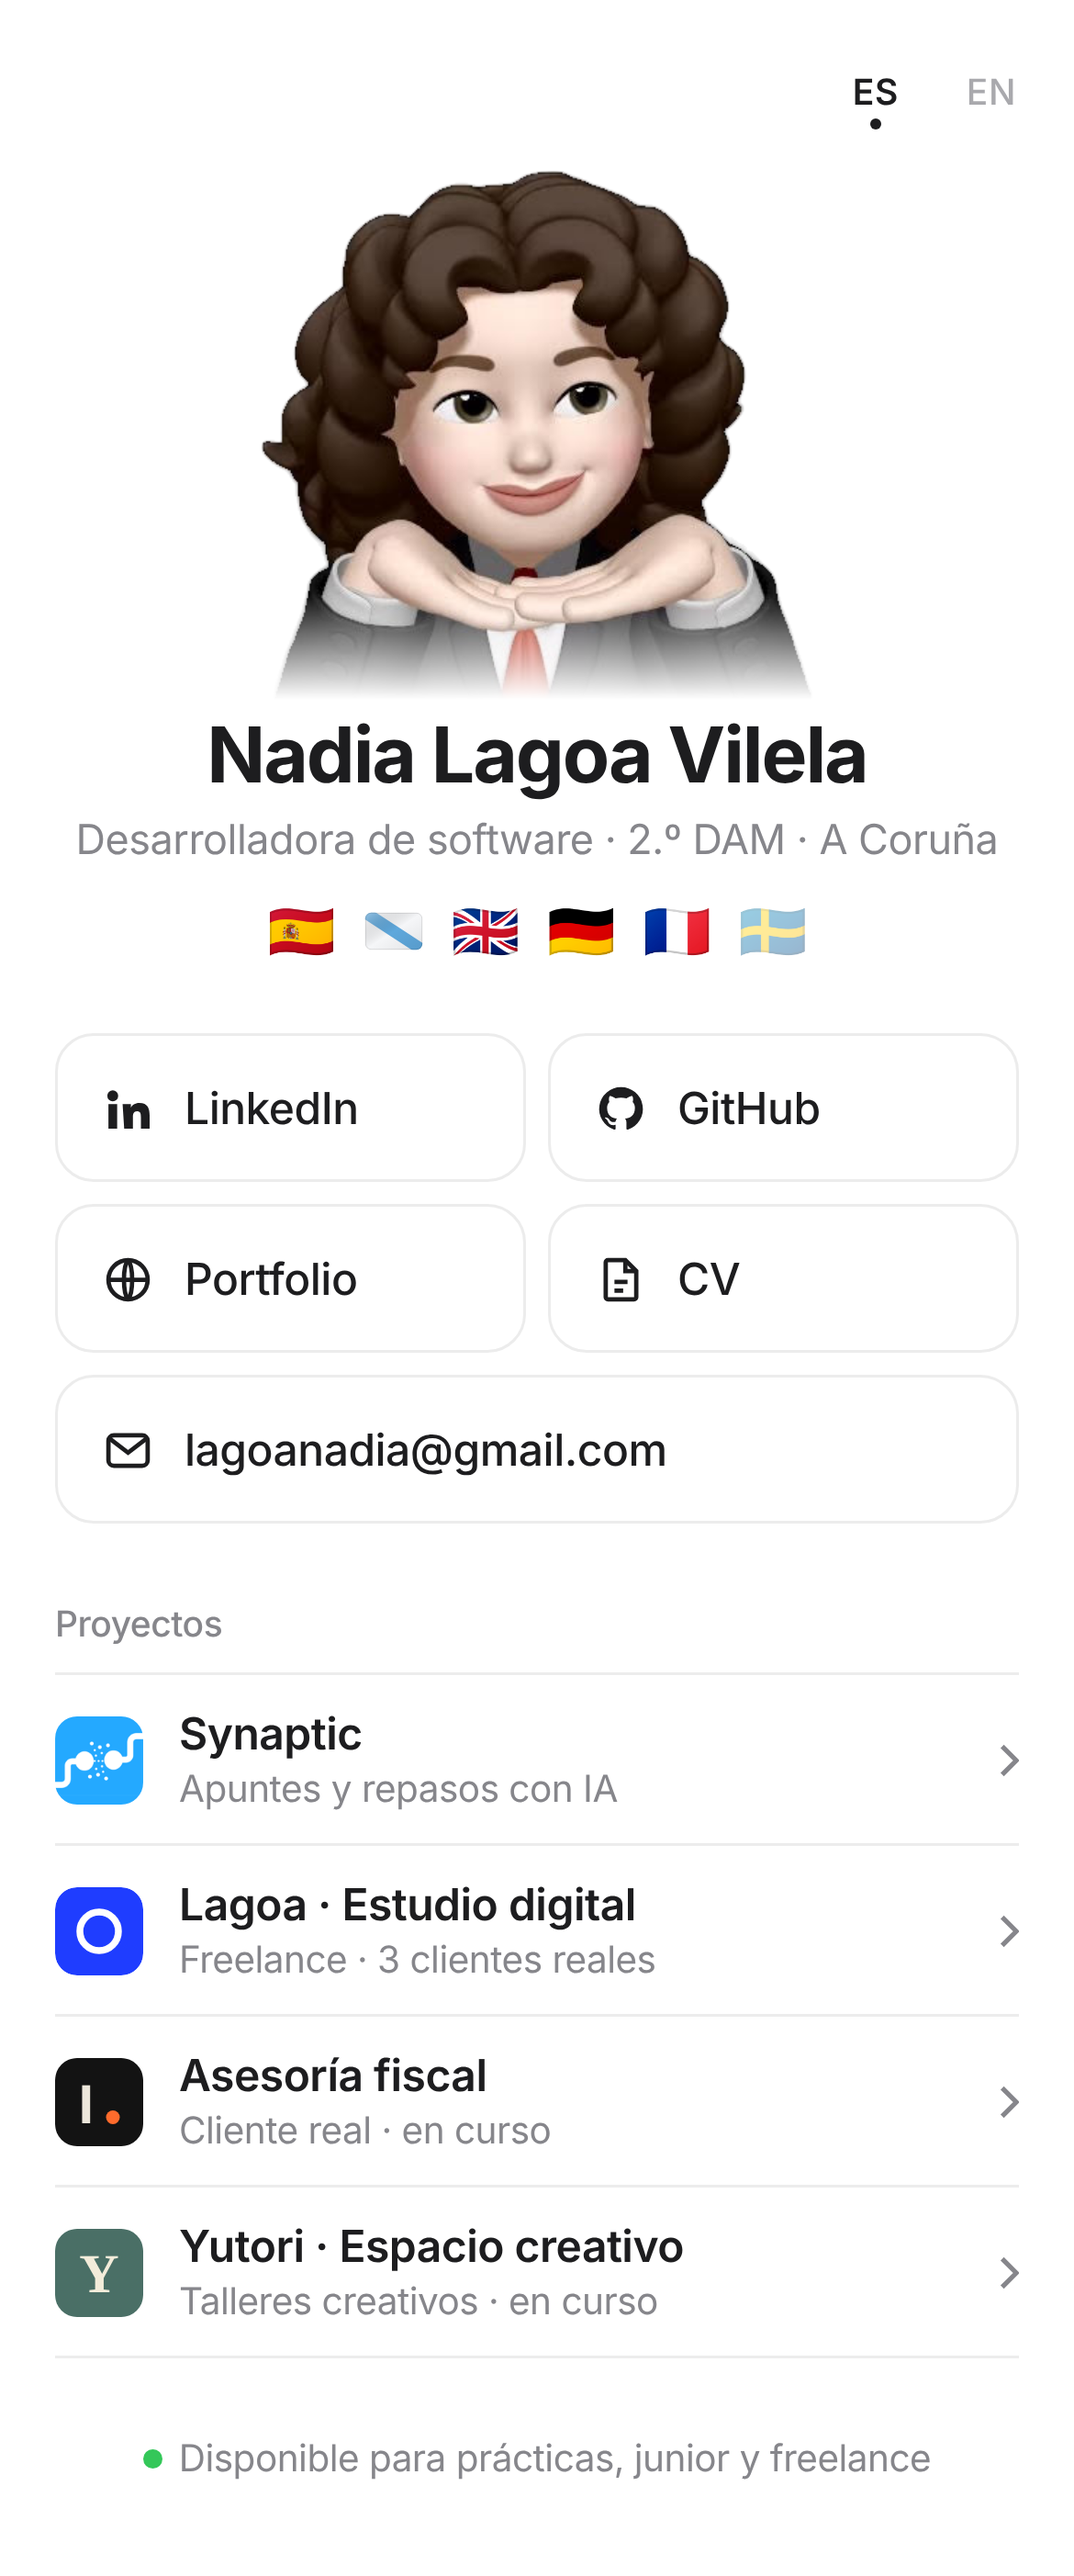
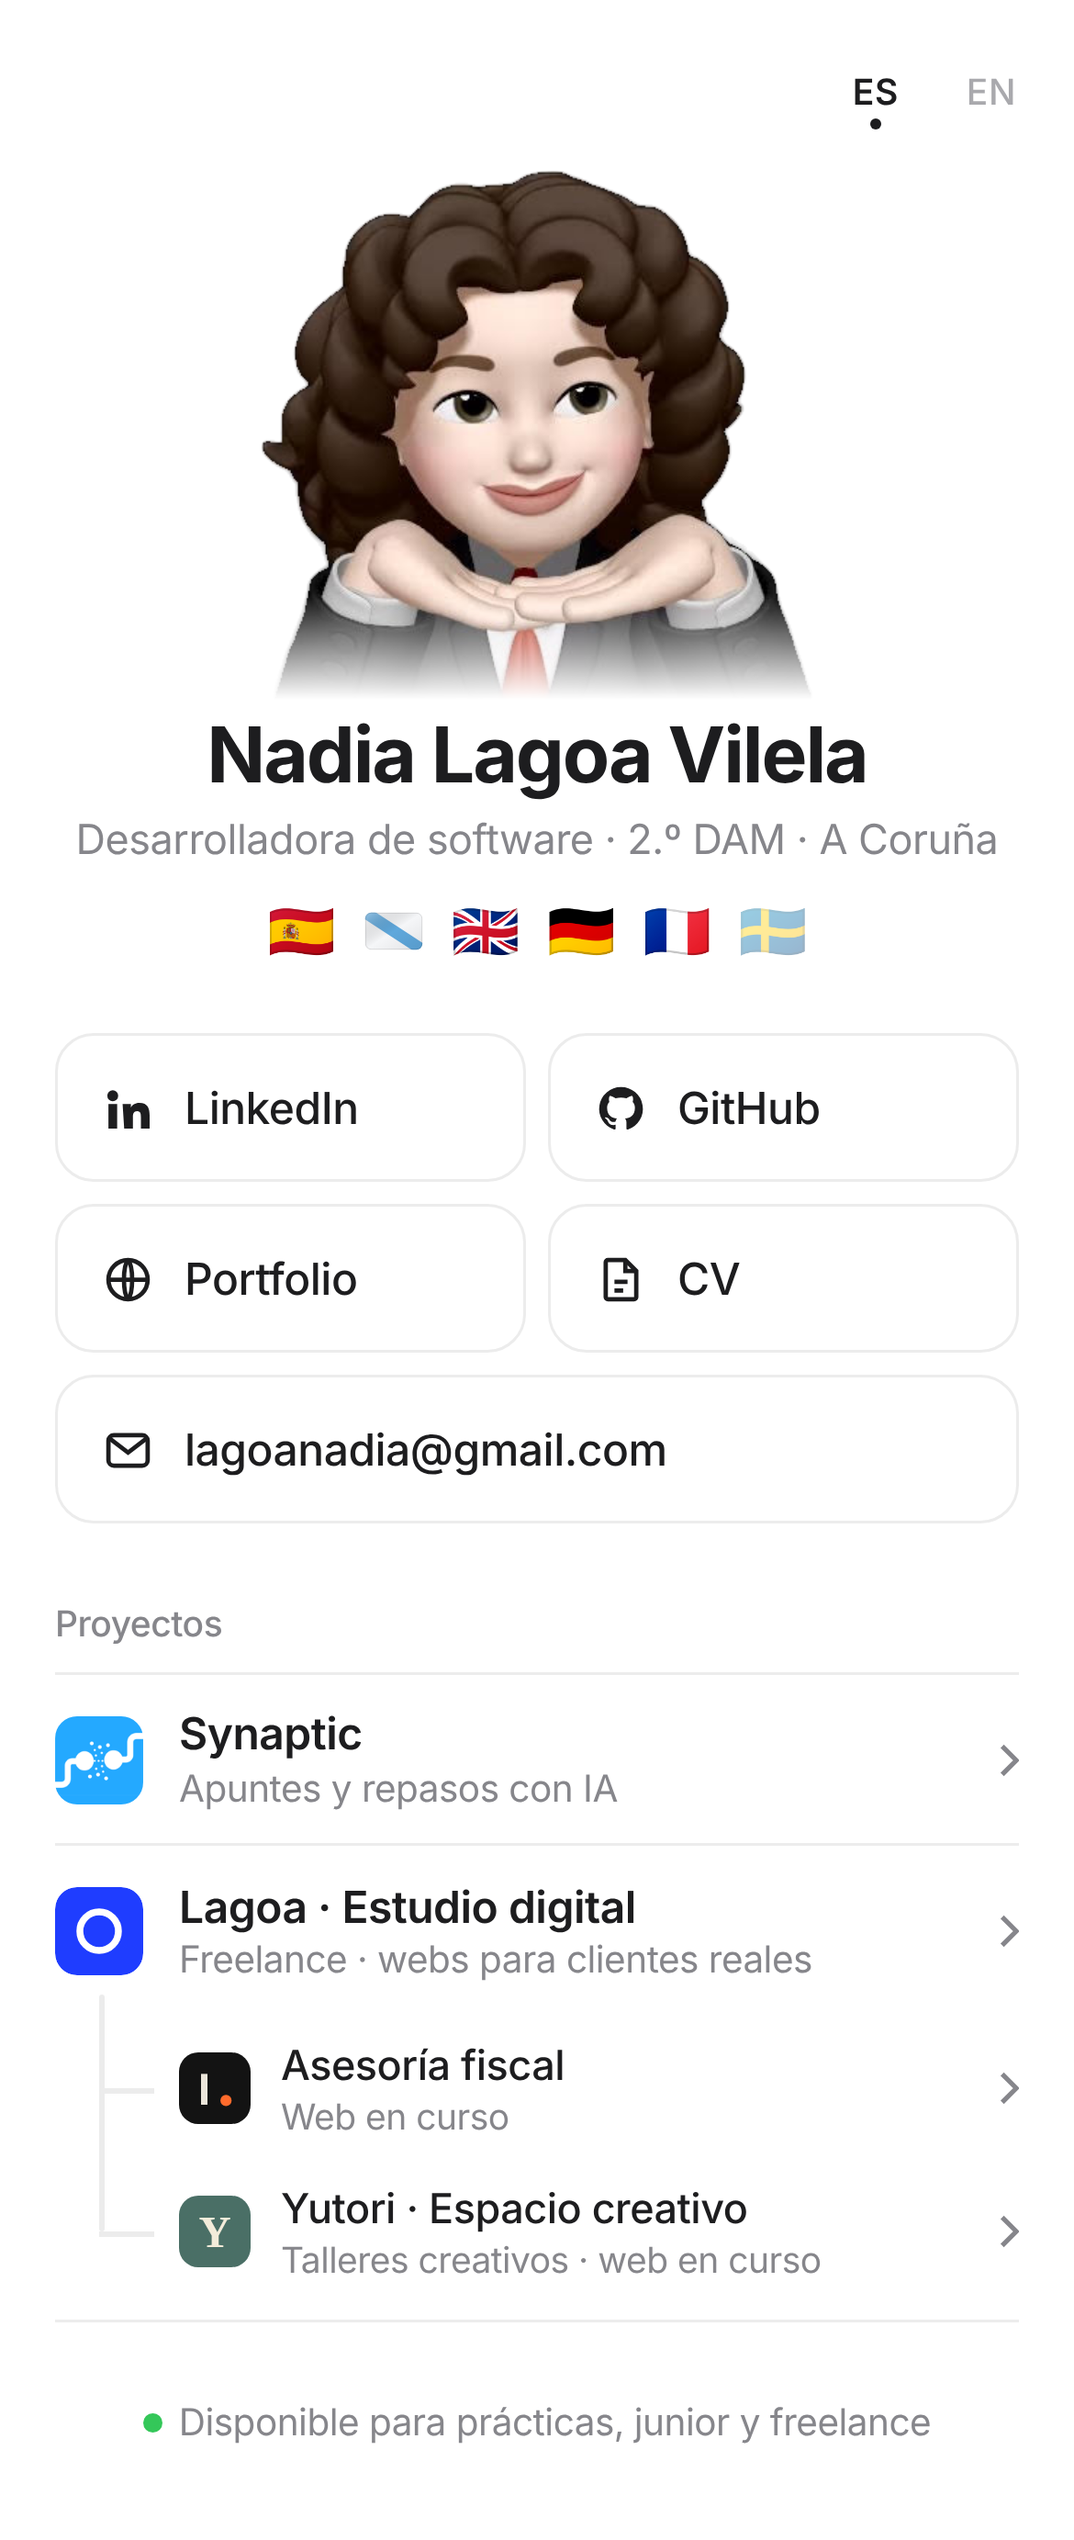
Agrupar clientes dentro de Lagoa
Claude-Session: https://claude.ai/code/session_012gZcx71BmCNMhoCCkeSb98

diff --git a/index.html b/index.html
@@ -59,6 +59,16 @@ h2{font-size:13px;font-weight:500;color:var(--muted);margin:28px 0 8px}
 .projects img{width:32px;height:32px;border-radius:8px;flex:none}
 .projects strong{display:block;font-weight:600;font-size:16px}
 .projects small{display:block;color:var(--muted);font-size:13.5px}
+.projects li:has(.clients)>a{border-bottom:0}
+.clients{list-style:none;position:relative;margin-left:16px;padding-left:29px;padding-bottom:6px}
+.projects li:has(.clients){border-bottom:1px solid var(--line)}
+.clients::before{content:"";position:absolute;left:0;top:-8px;bottom:32px;width:1.5px;background:var(--line);border-radius:1px}
+.clients li{position:relative}
+.clients li::before{content:"";position:absolute;left:-29px;top:50%;width:20px;height:1.5px;background:var(--line)}
+.clients a{min-height:52px;border-bottom:0;gap:11px}
+.clients img{width:26px;height:26px;border-radius:7px}
+.clients strong{font-size:15px;font-weight:500}
+.clients small{font-size:13px}
 .projects .ch{width:7px;height:12px;margin-left:auto;color:var(--muted)}
 
 footer{margin-top:28px;text-align:center;color:var(--muted);font-size:13.5px}
@@ -112,14 +122,17 @@ footer{margin-top:28px;text-align:center;color:var(--muted);font-size:13.5px}
         <img src="img/synaptic.png" alt="" width="32" height="32"><div><strong>Synaptic</strong><small data-i18n="p1">Apuntes y repasos con IA</small></div>
         <svg class="ch" viewBox="0 0 8 14" fill="none" stroke="currentColor" stroke-width="2" aria-hidden="true"><path d="M1 1l6 6-6 6"/></svg></a></li>
       <li><a href="https://lagoa-webs.vercel.app" target="_blank" rel="noopener">
-        <img src="img/lagoa.svg" alt="" width="32" height="32"><div><strong>Lagoa · Estudio digital</strong><small data-i18n="p2">Freelance · 3 clientes reales</small></div>
+        <img src="img/lagoa.svg" alt="" width="32" height="32"><div><strong>Lagoa · Estudio digital</strong><small data-i18n="p2">Freelance · webs para clientes reales</small></div>
+        <svg class="ch" viewBox="0 0 8 14" fill="none" stroke="currentColor" stroke-width="2" aria-hidden="true"><path d="M1 1l6 6-6 6"/></svg></a>
+        <ul class="clients" aria-label="Clientes de Lagoa" data-i18n-aria="clients">
+          <li><a href="https://asesoria-fiscal.lagoanadia.workers.dev/" target="_blank" rel="noopener">
+        <img src="img/asesoria.svg" alt="" width="32" height="32"><div><strong data-i18n="p3t">Asesoría fiscal</strong><small data-i18n="p3">Web en curso</small></div>
         <svg class="ch" viewBox="0 0 8 14" fill="none" stroke="currentColor" stroke-width="2" aria-hidden="true"><path d="M1 1l6 6-6 6"/></svg></a></li>
-      <li><a href="https://asesoria-fiscal.lagoanadia.workers.dev/" target="_blank" rel="noopener">
-        <img src="img/asesoria.svg" alt="" width="32" height="32"><div><strong data-i18n="p3t">Asesoría fiscal</strong><small data-i18n="p3">Cliente real · en curso</small></div>
+          <li><a href="https://yutori.lagoanadia.workers.dev/" target="_blank" rel="noopener">
+        <img src="img/yutori.svg" alt="" width="32" height="32"><div><strong data-i18n="p4t">Yutori · Espacio creativo</strong><small data-i18n="p4">Talleres creativos · web en curso</small></div>
         <svg class="ch" viewBox="0 0 8 14" fill="none" stroke="currentColor" stroke-width="2" aria-hidden="true"><path d="M1 1l6 6-6 6"/></svg></a></li>
-      <li><a href="https://yutori.lagoanadia.workers.dev/" target="_blank" rel="noopener">
-        <img src="img/yutori.svg" alt="" width="32" height="32"><div><strong data-i18n="p4t">Yutori · Espacio creativo</strong><small data-i18n="p4">Talleres creativos · en curso</small></div>
-        <svg class="ch" viewBox="0 0 8 14" fill="none" stroke="currentColor" stroke-width="2" aria-hidden="true"><path d="M1 1l6 6-6 6"/></svg></a></li>
+        </ul></li>
+
     </ul>
   </section>
 
@@ -128,8 +141,8 @@ footer{margin-top:28px;text-align:center;color:var(--muted);font-size:13.5px}
 <script>
 (function(){
   var T={
-    es:{title:"Nadia Lagoa Vilela · Desarrolladora de software",skip:"Saltar a los enlaces",alt:"Memoji de Nadia",langs:"Idiomas: español, gallego, inglés, alemán, francés; aprendiendo sueco",role:"Desarrolladora de software · 2.º DAM · A Coruña",cvAria:"Ver CV (PDF)",projects:"Proyectos",p1:"Apuntes y repasos con IA",p2:"Freelance · 3 clientes reales",p3t:"Asesoría fiscal",p3:"Cliente real · en curso",p4t:"Yutori · Espacio creativo",p4:"Talleres creativos · en curso",avail:"Disponible para prácticas, junior y freelance"},
-    en:{title:"Nadia Lagoa Vilela · Software developer",skip:"Skip to links",alt:"Nadia's Memoji",langs:"Languages: Spanish, Galician, English, German, French; learning Swedish",role:"Software developer · 2nd-year DAM · A Coruña",cvAria:"View CV (PDF)",projects:"Projects",p1:"AI-powered notes and reviews",p2:"Freelance · 3 real clients",p3t:"Tax advisory",p3:"Real client · in progress",p4t:"Yutori · Creative space",p4:"Creative workshops · in progress",avail:"Open to internships, junior roles and freelance"}
+    es:{title:"Nadia Lagoa Vilela · Desarrolladora de software",skip:"Saltar a los enlaces",alt:"Memoji de Nadia",langs:"Idiomas: español, gallego, inglés, alemán, francés; aprendiendo sueco",role:"Desarrolladora de software · 2.º DAM · A Coruña",cvAria:"Ver CV (PDF)",projects:"Proyectos",p1:"Apuntes y repasos con IA",p2:"Freelance · webs para clientes reales",p3t:"Asesoría fiscal",p3:"Web en curso",clients:"Clientes de Lagoa",p4t:"Yutori · Espacio creativo",p4:"Talleres creativos · web en curso",avail:"Disponible para prácticas, junior y freelance"},
+    en:{title:"Nadia Lagoa Vilela · Software developer",skip:"Skip to links",alt:"Nadia's Memoji",langs:"Languages: Spanish, Galician, English, German, French; learning Swedish",role:"Software developer · 2nd-year DAM · A Coruña",cvAria:"View CV (PDF)",projects:"Projects",p1:"AI-powered notes and reviews",p2:"Freelance · websites for real clients",p3t:"Tax advisory",p3:"Website in progress",clients:"Lagoa clients",p4t:"Yutori · Creative space",p4:"Creative workshops · website in progress",avail:"Open to internships, junior roles and freelance"}
   };
   function set(l){
     var d=T[l];document.documentElement.lang=l;document.title=d.title;
